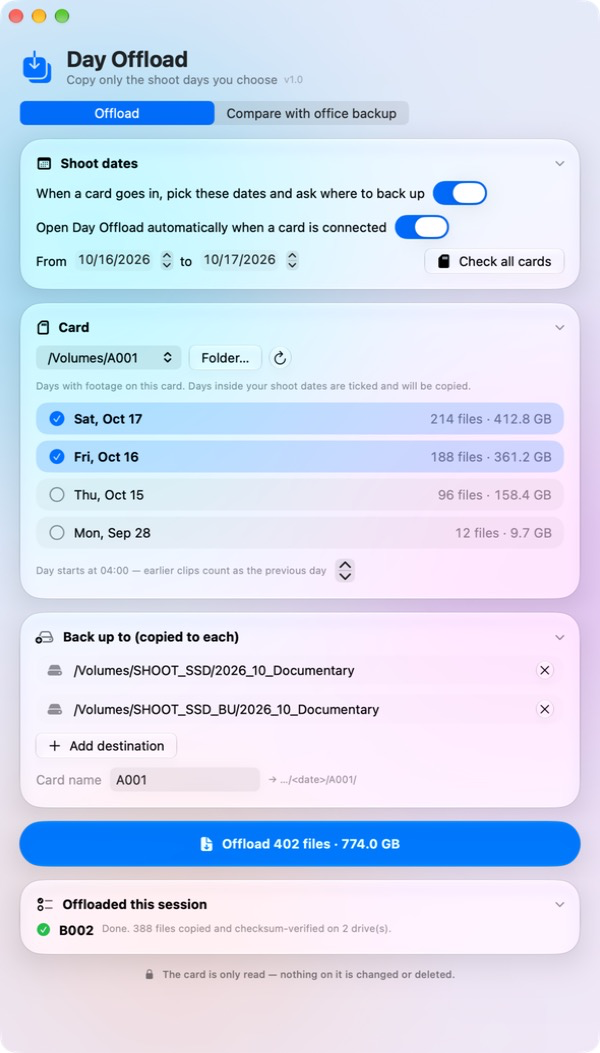
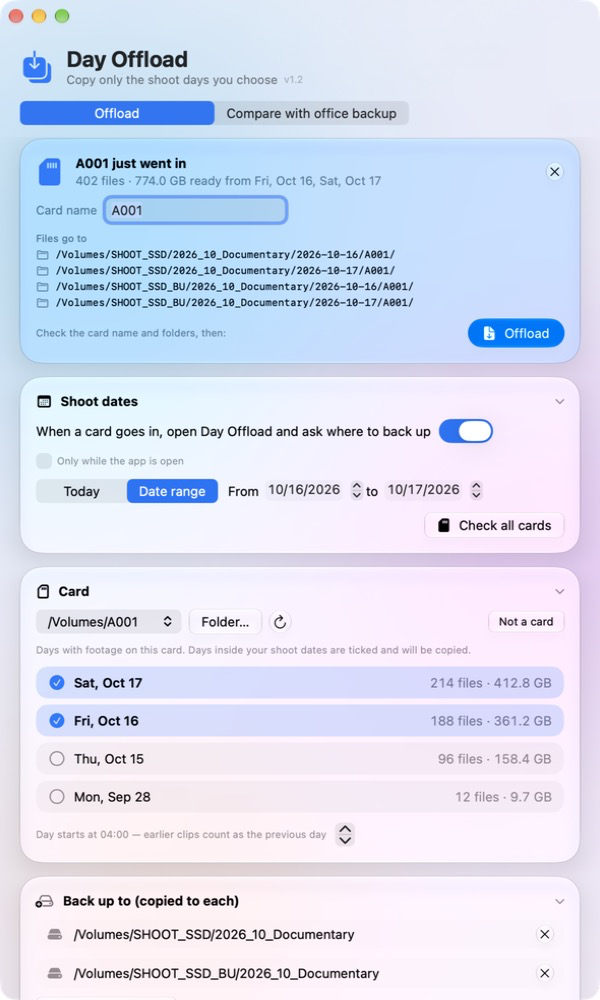
README + screenshots for v1.2 (card note instead of pop-up)

diff --git a/README.md b/README.md
@@ -4,12 +4,12 @@ A Mac app for multi-day shoots: **offload only the days you shot from a camera c
 
 On a shoot you keep recording on the same cards day after day and only format them back at the office. Every offload tool you know copies the whole card each night; dragging today's clips out in Finder is risky. Day Offload copies just the shoot days you pick, checks every copy, and leaves the card exactly as it was.
 
-![A card goes in and Day Offload offers the shoot days](docs/card-inserted.png)
+![A card goes in: Day Offload shows the card, its shoot days and the exact folders, one press to offload](docs/card-inserted.png)
 
 ## What it does
 
 - **Copies by shoot day.** Each clip's day comes from the camera's own timestamps. A clip's proxy and sidecar files (`A001.braw`, `Proxy/A001.mp4`, `A001.sidecar` …) always travel with it, even if they were changed later. A "day starts at 04:00" setting keeps a night shoot that runs past midnight in the same day.
-- **Set your shoot dates once.** When a card goes in, the app opens by itself, ticks the days inside your dates and asks where to back up. Several cards? They queue up and run one after another with the same dates.
+- **Today, or your shoot dates.** When a card goes in, the app opens by itself with that card selected and today's footage ticked (or the card's latest day the morning after) — or the days inside a date range you set. A note at the top shows the card name and the exact folders it will write; one press of **Offload** and it's going. Several cards? They queue up one after another.
 - **Verified copies to every drive at once.** The card is read once and written to all destinations together. Then every copy is read back from the drive itself (cache bypassed) and checked against the card's checksum. Already-copied files are skipped, so offloading at lunch and again at wrap is safe.
 - **The card is only read.** Nothing on it is changed, renamed or deleted.
 - **Tidy folders.** `<drive>/<date>/<card>/…` with the card's own folder layout, plus a checksum record (`_offload_manifest.csv`, MD5 + xxHash3-128) in each.
